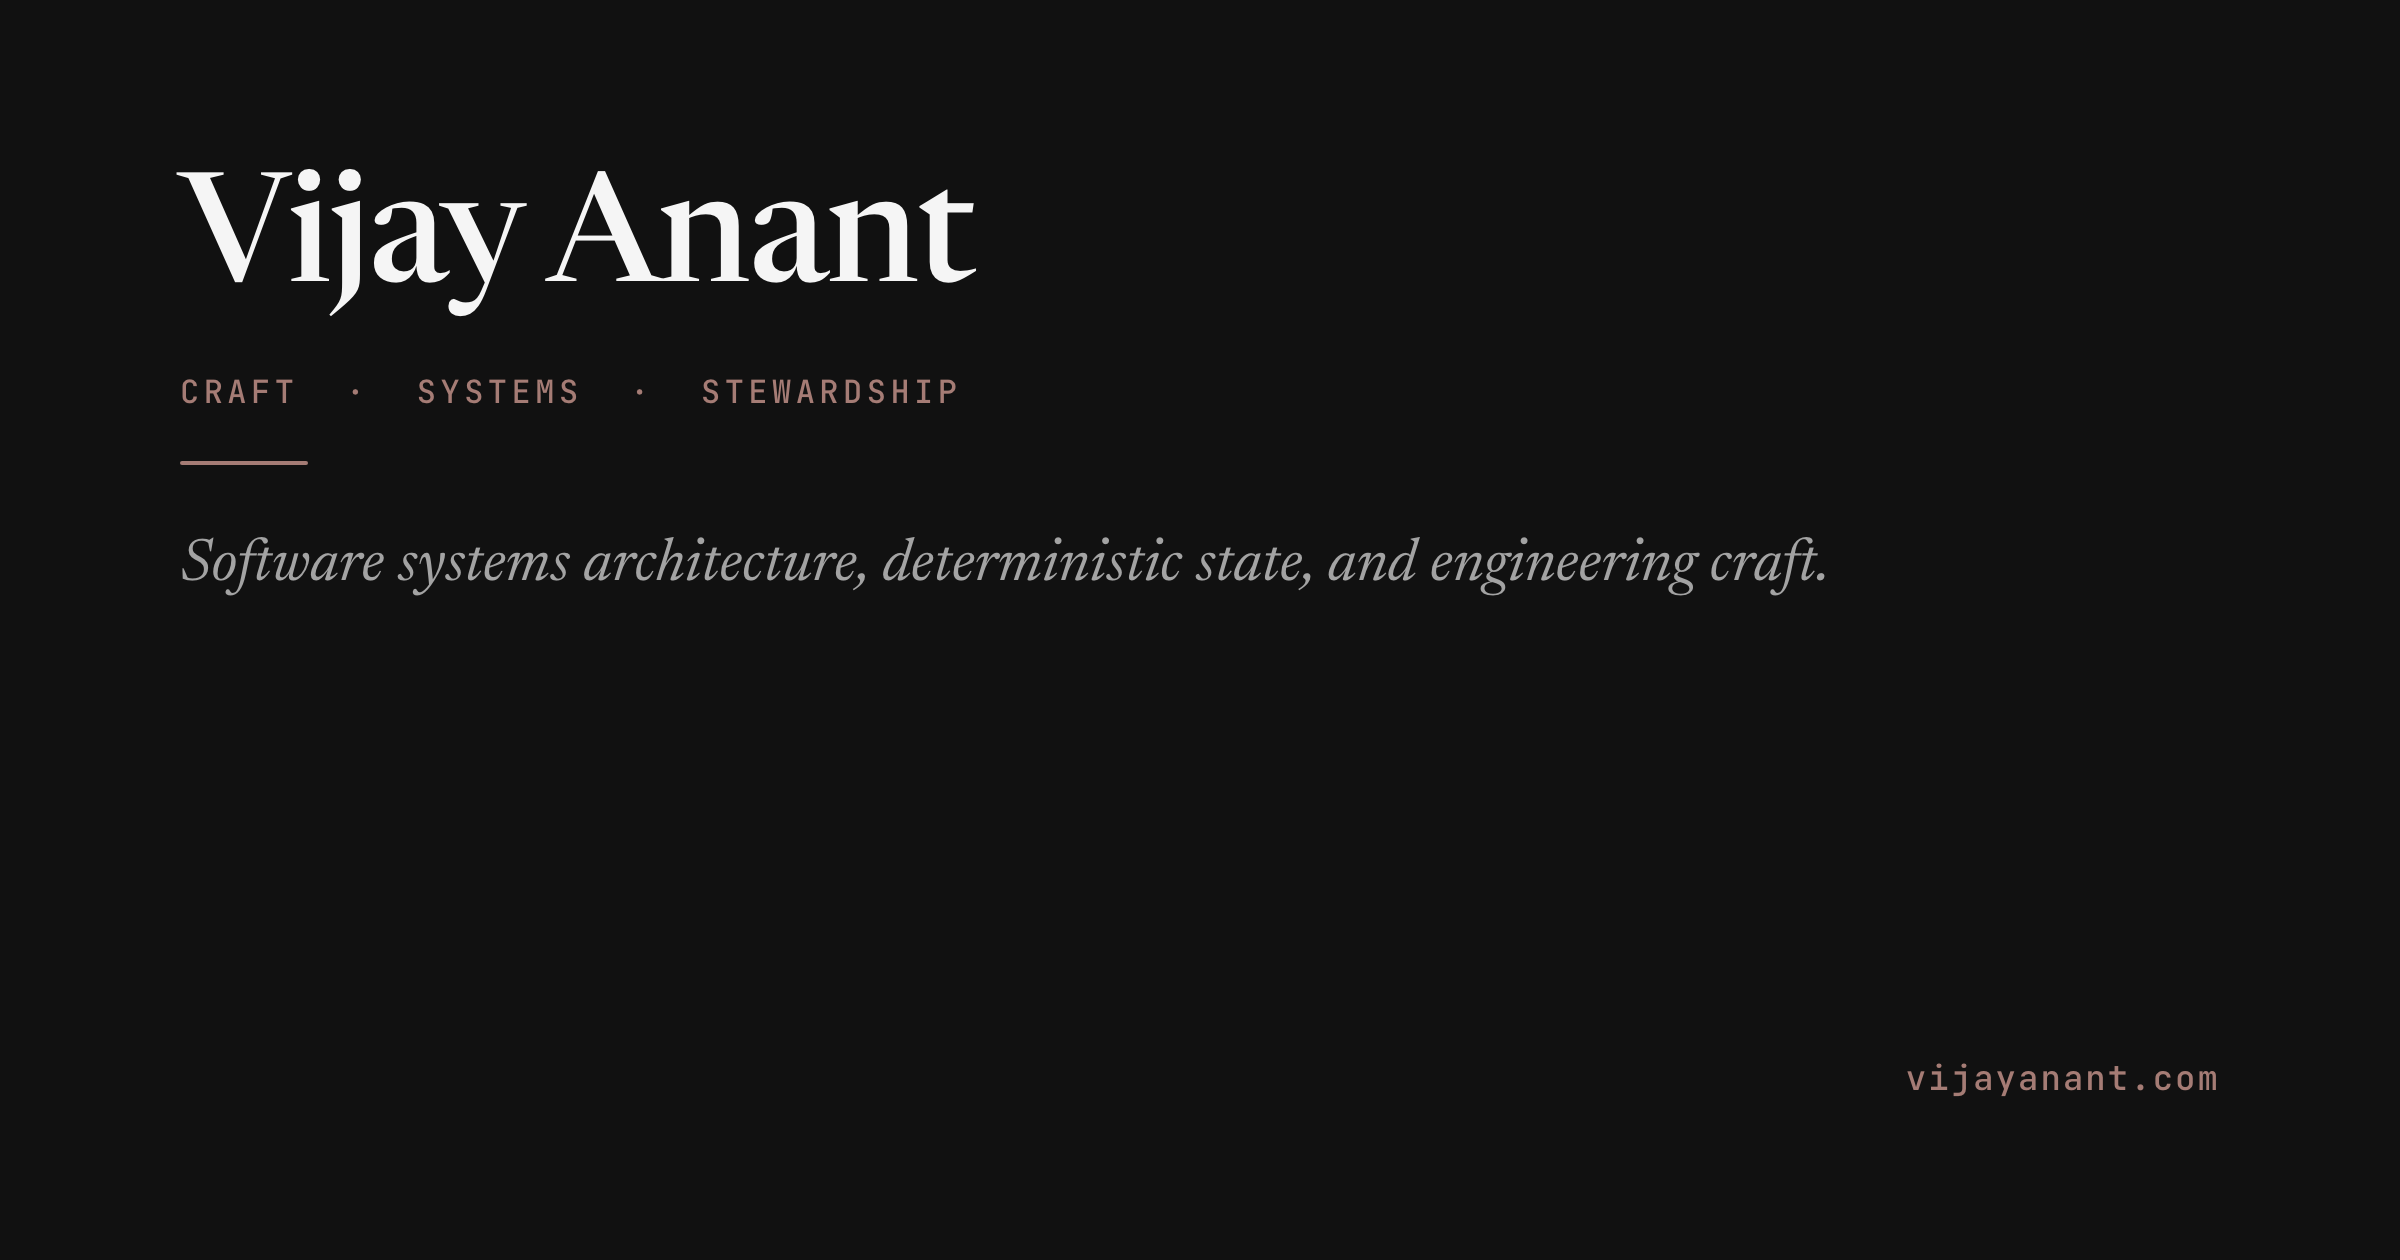
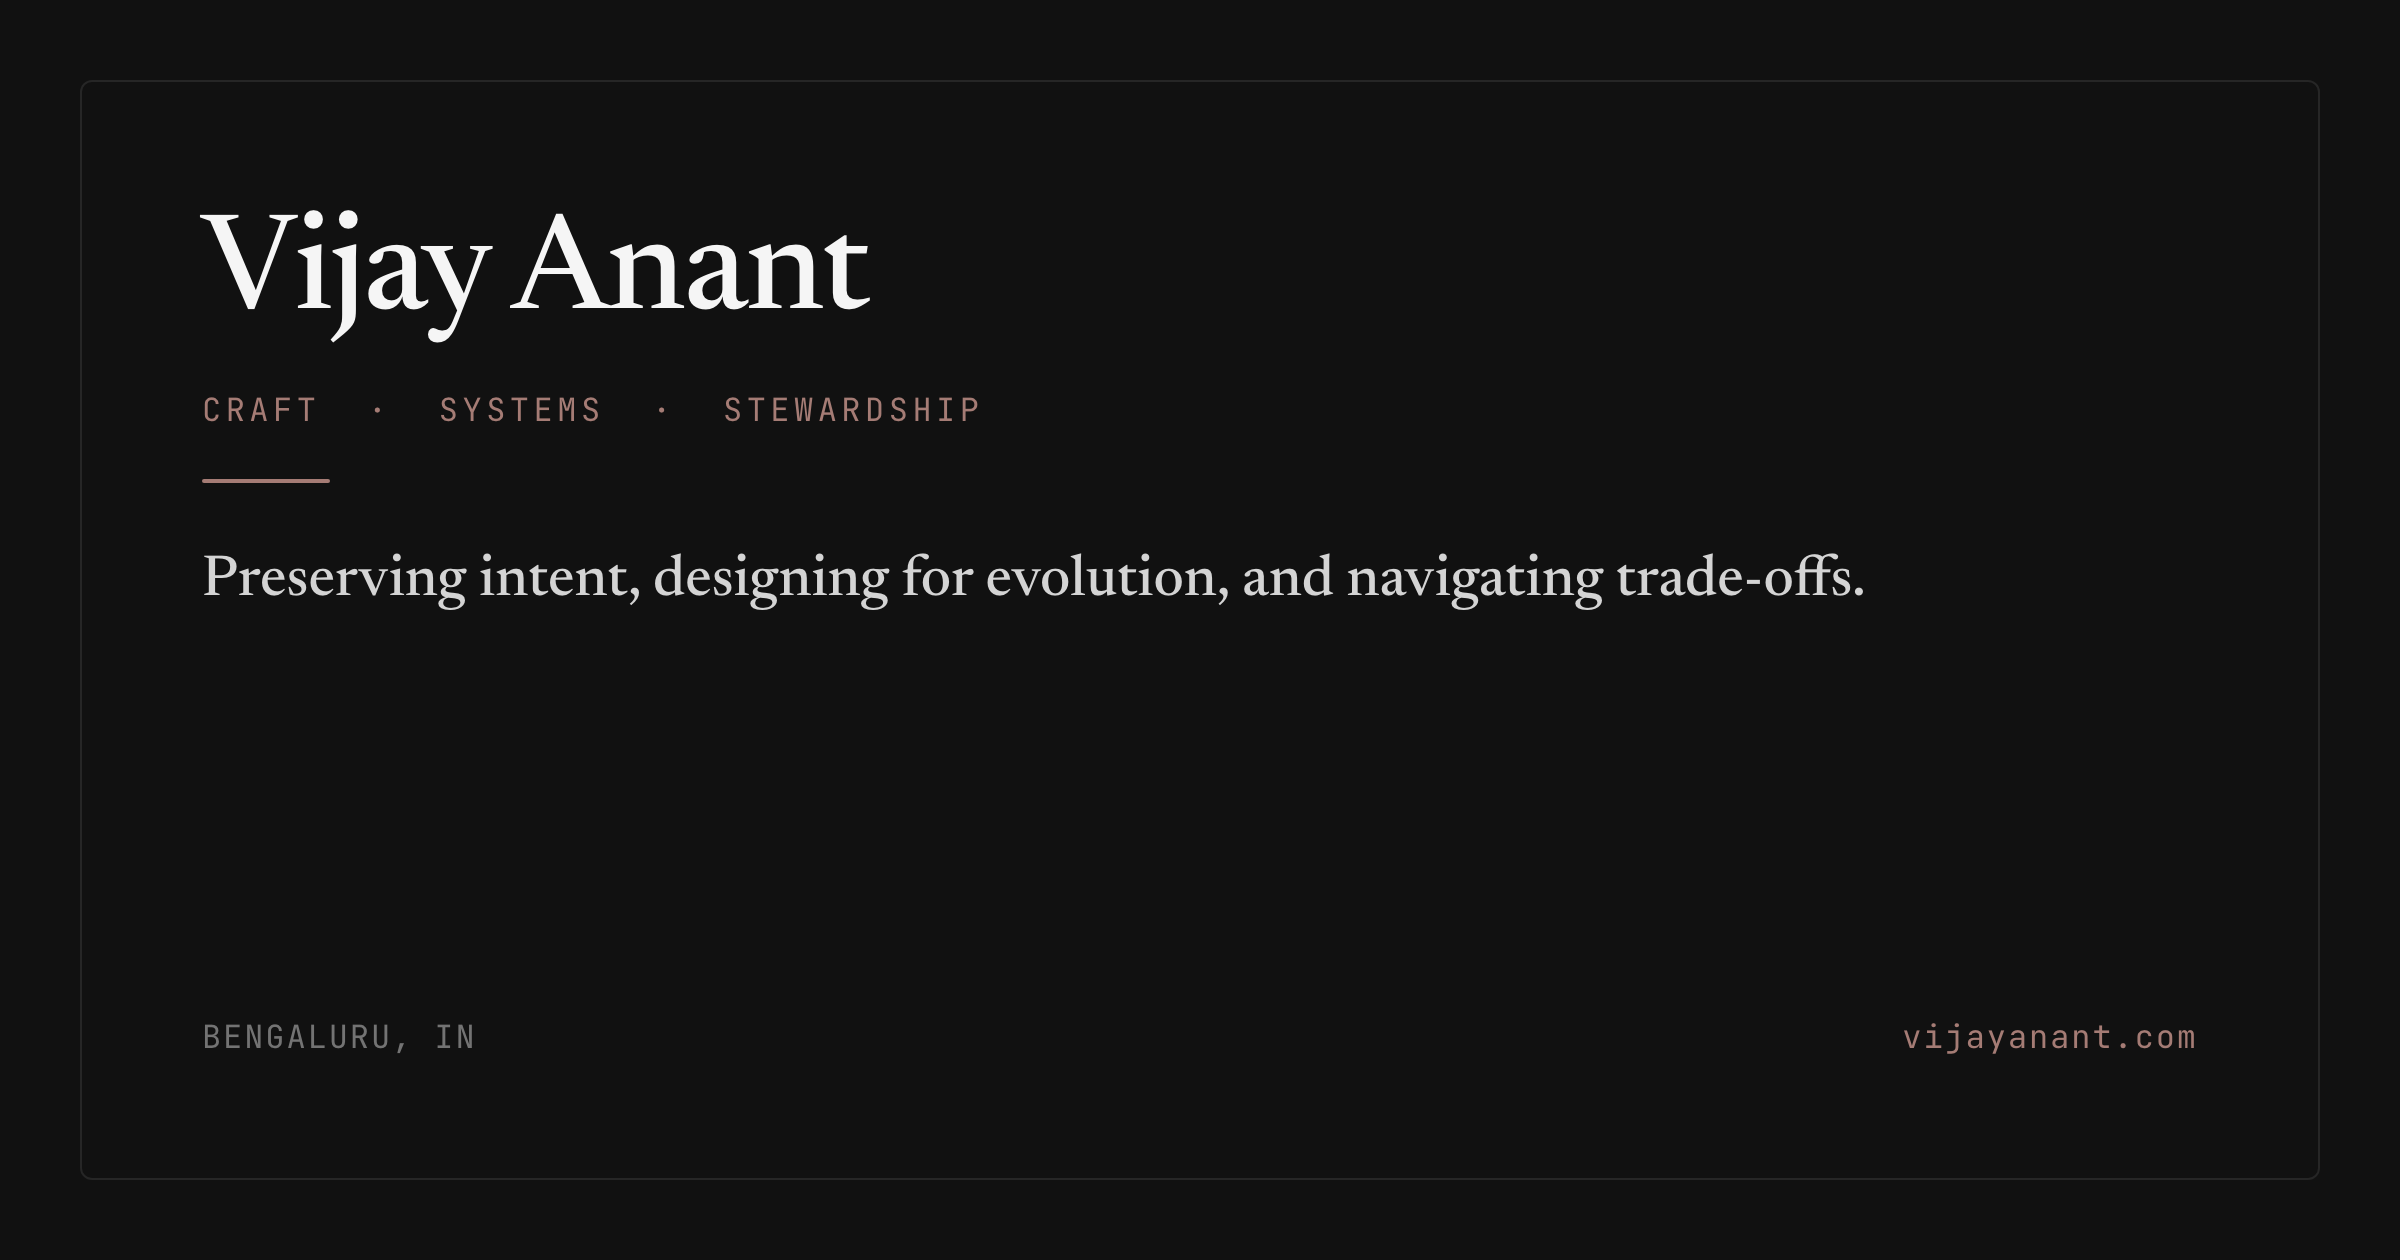
Update masthead pillars and refine site thesis

diff --git a/layouts/partials/seo/schema-homepage.html b/layouts/partials/seo/schema-homepage.html
@@ -25,7 +25,7 @@
           {{- $e.url | jsonify | safeJS }}
         {{- end }}
       ],
-      "jobTitle": {{ site.Params.description | jsonify | safeJS }},
+      "jobTitle": {{ site.Params.jobTitle | default "Systems Architect" | jsonify | safeJS }},
       "worksFor": {
         "@type": "Organization",
         "name": {{ site.Title | jsonify | safeJS }}

diff --git a/content/_index.md b/content/_index.md
@@ -1,6 +1,6 @@
 ---
 title: "Vijay Anant | Systems Architect"
-description: "Software systems architecture, deterministic state, and engineering craft."
+description: "Preserving intent, designing for evolution, and navigating trade-offs."
 layout: index
 aliases:
   - /explore/
